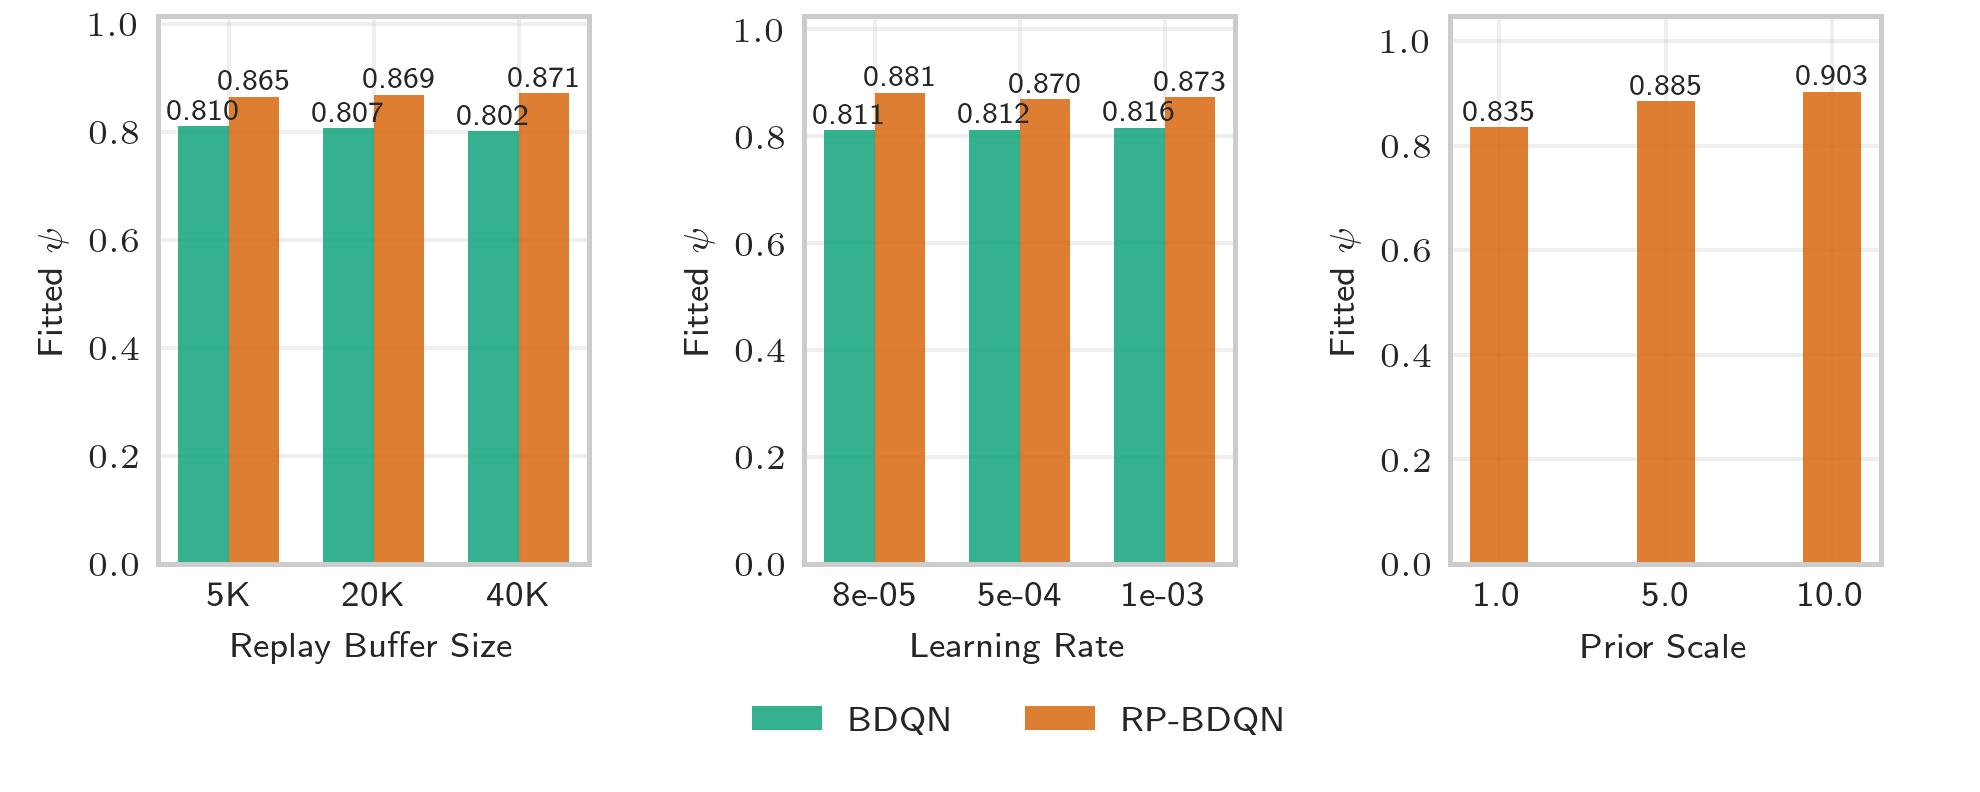
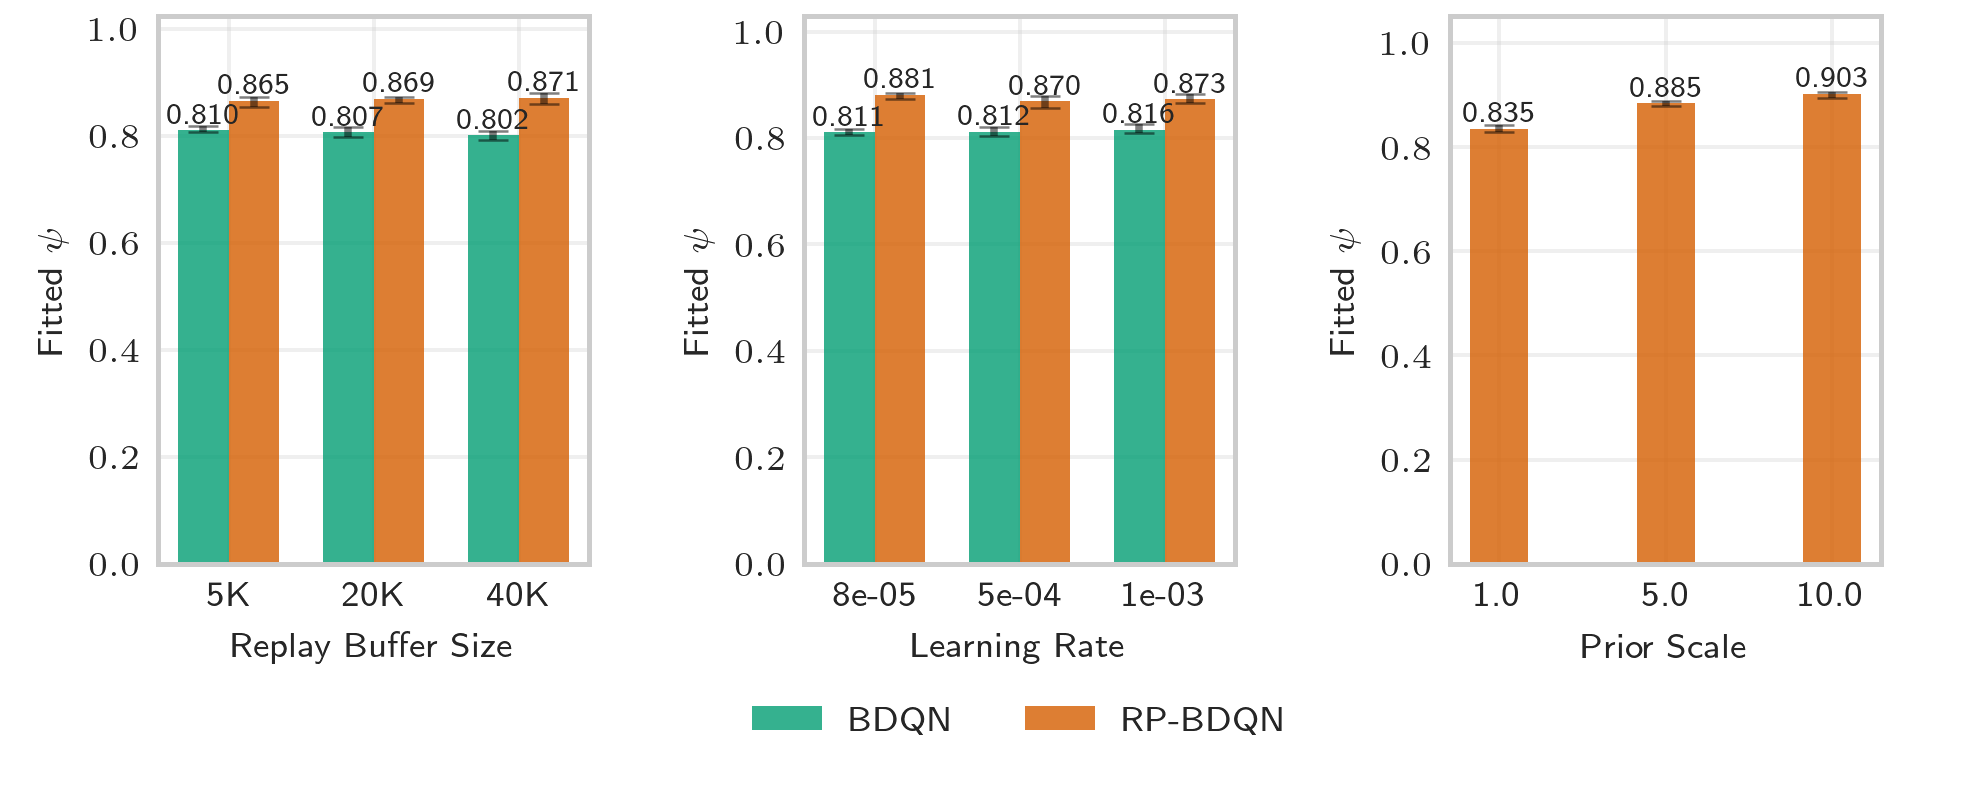
wip..

diff --git a/evaluate.py b/evaluate.py
@@ -253,22 +253,29 @@ def plot_frontier_and_heatmaps(
     plot_save("frontier_and_heatmaps", prefix=plot_prefix)
 
 
-def _fit_beta(df: pd.DataFrame, kind: str):
+def _fit_beta(df: pd.DataFrame, kind: str, bootstrap_uncertainty: bool = False):
     df = df[df["ensemble_size"] > 1]
 
-    def negloglike(beta):
+    def negloglike_for_df(data_df, beta):
         if beta <= 0 or beta >= 1:
             return 1e18
-        p = 1 - (1 - beta ** df["hardness"]) ** df["ensemble_size"]
+        p = 1 - (1 - beta ** data_df["hardness"]) ** data_df["ensemble_size"]
         p = np.clip(p, 1e-15, 1 - 1e-15)  # prevent log(0)
-        k = df["weak_convergence"] * 32  # successes out of 32 trials
+        k = data_df["weak_convergence"] * 32  # successes out of 32 trials
         n = 32
         return -np.sum(k * np.log(p) + (n - k) * np.log1p(-p))
 
-    res = minimize_scalar(negloglike, bounds=(1e-6, 1 - 1e-6), method="bounded")
-    beta = res.x
+    def fit_beta_for_df(data_df):
+        def negloglike(beta):
+            return negloglike_for_df(data_df, beta)
 
-    # compute predicted vs observed
+        res = minimize_scalar(negloglike, bounds=(1e-6, 1 - 1e-6), method="bounded")
+        return res.x
+
+    # Fit beta on original data
+    beta = fit_beta_for_df(df)
+
+    # compute predicted vs observed for original data
     p_hat = 1 - (1 - beta ** df["hardness"]) ** df["ensemble_size"]
 
     y = df["weak_convergence"].values
@@ -276,9 +283,32 @@ def _fit_beta(df: pd.DataFrame, kind: str):
     ss_res = np.sum((y - p_hat) ** 2)
     ss_tot = np.sum((y - np.mean(y)) ** 2)
     r2 = 1 - ss_res / ss_tot
-    print(f"Kind={kind} gets r2={r2} and mse={mse} for beta={beta}")
 
-    return beta, mse, r2
+    if bootstrap_uncertainty:
+        # Bootstrap resampling
+        n_bootstrap = 50
+        bootstrap_betas = []
+
+        for _ in range(n_bootstrap):
+            # Resample data with replacement
+            bootstrap_df = df.sample(n=len(df), replace=True)
+            bootstrap_beta = fit_beta_for_df(bootstrap_df)
+            bootstrap_betas.append(bootstrap_beta)
+
+        bootstrap_betas = np.array(bootstrap_betas)
+
+        # Compute 80% confidence interval (10th and 90th percentiles)
+        ci_lower = np.percentile(bootstrap_betas, 10)
+        ci_upper = np.percentile(bootstrap_betas, 90)
+
+        print(
+            f"Kind={kind} gets r2={r2} and mse={mse} for beta={beta} (80% CI: [{ci_lower:.6f}, {ci_upper:.6f}])"
+        )
+
+        return beta, mse, r2, (ci_lower, ci_upper)
+    else:
+        print(f"Kind={kind} gets r2={r2} and mse={mse} for beta={beta}")
+        return beta, mse, r2
 
 
 def compute_frontier(df: pd.DataFrame, kind: str, p: float, all_hardnesses) -> pd.DataFrame:
@@ -486,16 +516,33 @@ def plot_hyperparameter_sweep():
         for j, kind in enumerate(kinds):
             df_kind = df_agg.query(f"kind == '{kind}'")
             betas = []
+            ci_lowers = []
+            ci_uppers = []
 
             for value in values:
                 df_subset = df_kind.query(f"{hp} == {value}")
                 if not df_subset.empty:
-                    beta, _, _ = _fit_beta(df_subset, kind)
+                    result = _fit_beta(df_subset, kind, bootstrap_uncertainty=True)
+                    beta, _, _, (ci_lower, ci_upper) = result
                     betas.append(beta)
+                    ci_lowers.append(ci_lower)
+                    ci_uppers.append(ci_upper)
                 else:
                     betas.append(0)
+                    ci_lowers.append(0)
+                    ci_uppers.append(0)
 
             offset = (j - 0.5) * width if len(kinds) == 2 else 0
+
+            # Calculate error bar values (distance from beta to confidence bounds)
+            yerr_lower = [
+                max(0, beta - ci_lower) if beta > 0 else 0
+                for beta, ci_lower in zip(betas, ci_lowers)
+            ]
+            yerr_upper = [
+                ci_upper - beta if beta > 0 else 0 for beta, ci_upper in zip(betas, ci_uppers)
+            ]
+
             bars = ax.bar(
                 x_pos + offset,
                 betas,
@@ -503,6 +550,18 @@ def plot_hyperparameter_sweep():
                 label=kind_names[kind],
                 color=kind_colors[kind],
                 alpha=0.8,
+            )
+
+            # Add error bars
+            ax.errorbar(
+                x_pos + offset,
+                betas,
+                yerr=[yerr_lower, yerr_upper],
+                fmt="none",
+                capsize=3,
+                capthick=0.5,
+                ecolor="black",
+                alpha=0.5,
             )
 
             for bar, beta in zip(bars, betas):
@@ -562,8 +621,8 @@ def plot_hyperparameter_sweep():
 
 
 if __name__ == "__main__":
-    plot_frontier_and_heatmaps()
     plot_hyperparameter_sweep()
+    plot_frontier_and_heatmaps()
     plot_diversity_collapse()
     plot_residuals()
     for hp, values, kinds in hp_and_ranges:
